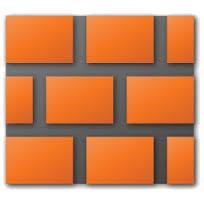
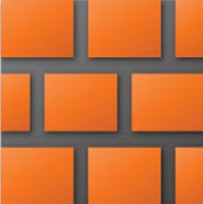
new

diff --git a/PROGETTO/src/board/GameBoard.java b/PROGETTO/src/board/GameBoard.java
@@ -31,41 +31,76 @@ public class GameBoard {
 				// generate a random number between 0 include and 100 exclusive.
 				random = rand.nextInt(100);
 				// five percent means 5/100 so if random is a number less than five percent
-				if ( random < 5 ){ // generate a Obstacle
+				if ( random < 7 ){ // generate a Obstacle
+					if(i!=0){
+						if(this.isWall(new Position(i-1,j)) ) {
+							outer.get(i).add(new Box(new Position(i,j))) ;  
+							continue;
+						}
+					}
+					else if(j!=0){
+						if(this.isWall(new Position(i,j-1)) ) {
+							outer.get(i).add(new Box(new Position(i,j))) ;  
+							continue;
+						}
+					}
 					
+					outer.get(i).add(new Wall(new Position(i,j))) ; 
 					
-					outer.get(i).add(new Obstacle(new Position(i,j))) ; 
-					random = rand.nextInt(100);
 				}
 				// 10 percent is between 10/100, so if random is between ten digits
-				else if( random >= 5 && random < 15 ){
+				else if( random >= 7 && random < 17 ){
 					
 					// generate obstacle
-					outer.get(i).add(new Wall(new Position(i,j))) ; 
-					random = rand.nextInt(100);
+
+					Random randh = new Random();
+					
+					outer.get(i).add(new Obstacle(new Position(i,j),randh.nextInt(46))) ;
+					
 				}
 				// else 
 				else { // fill with empty
 					outer.get(i).add(new Box(new Position(i,j))) ; 
-					random = rand.nextInt(100);
+					
 				}
+				random = rand.nextInt(100);
 			}
+		}
+
+		Position temp=new Position(rand.nextInt(height-1),rand.nextInt(width-1));
+		
+		while(true){
+			
+			if(this.isEmpty(temp)){
+				outer.get(temp.getX()).set(temp.getY(),new Trunk(temp));
+				break;
+			}
+			temp=new Position(rand.nextInt(height-1),rand.nextInt(width-1));
 		}
 		
 	}
 	public Boolean isObstacle(Position pos){
+		if(!(pos.getX()>=0 && pos.getX()<height) ||!(pos.getY()>=0 && pos.getY()<width) ) return false;
 		Boolean flag=false;
-		if(outer.get(pos.getX()).get(pos.getY()).getClass().getName().equals("Obstacle"))flag=true;
+		if(outer.get(pos.getX()).get(pos.getY()).getClass().getName().contains("Obstacle"))flag=true;
+		return flag;
+	}
+	public Boolean isTrunk(Position pos){
+		if(!(pos.getX()>=0 && pos.getX()<height) ||!(pos.getY()>=0 && pos.getY()<width) ) return false;
+		Boolean flag=false;
+		if(outer.get(pos.getX()).get(pos.getY()).getClass().getName().contains("Trunk"))flag=true;
 		return flag;
 	}
 	public Boolean isEmpty(Position pos){
+		if(!(pos.getX()>=0 && pos.getX()<height) ||!(pos.getY()>=0 && pos.getY()<width) ) return false;
 		Boolean flag=false;
-		if(outer.get(pos.getX()).get(pos.getY()).getClass().getName().equals("Box"))flag=true;
+		if(outer.get(pos.getX()).get(pos.getY()).getClass().getName().contains("Box"))flag=true;
 		return flag;
 	}
 	public Boolean isWall(Position pos){
+		if(!(pos.getX()>=0 && pos.getX()<height) ||!(pos.getY()>=0 && pos.getY()<width) ) return false;
 		Boolean flag=false;
-		if(outer.get(pos.getX()).get(pos.getY()).getClass().getName().equals("Wall"))flag=true;
+		if(outer.get(pos.getX()).get(pos.getY()).getClass().getName().contains("Wall"))flag=true;
 		return flag;
 	}
 	public JPanel getFrame(){

diff --git a/PROGETTO/src/board/Obstacle.java b/PROGETTO/src/board/Obstacle.java
@@ -18,15 +18,19 @@ import board.Wall.WallComponent;
 
 public class Obstacle extends Positionable {
 
-	public Obstacle(Position pos) {
+	public Obstacle(Position pos,double h) {
 		// TODO Auto-generated constructor stub
 		super.setPosition(pos);
+		health=h;
 	}
 	class ObstacleComponent extends JComponent {
 		private Position pos;
-		public ObstacleComponent(Position newPos){
+		private double heal;
+		public ObstacleComponent(Position newPos, double h){
 			super();
 			pos=newPos;
+			heal=h;
+			
 		}
 		public void paintComponent(Graphics g) {
 			
@@ -54,15 +58,34 @@ public class Obstacle extends Positionable {
 			 //   label.setBorder(BorderFactory.createLineBorder(Color.BLACK));
 			    
 			 //   g2.draw(label);
+
+				Rectangle2D.Double bar = new Rectangle2D.Double(2, 2, 46, 3);
+				
+				
+				Rectangle2D.Double coloredBar = new Rectangle2D.Double(2, 2, heal, 3);
 				g2.drawImage(sfondoBox, 0 , 0,50,50, null);
-				g2.drawImage(immagine, 0 , 0,50,50, null);		
+				g2.drawImage(immagine, 0 , 0,50,50, null);
+				g2.setPaint(Color.BLACK);
+				g2.fill(bar);
+				g2.draw(bar);
+				if(heal>=(46F*50F/100F))
+					g2.setPaint(Color.GREEN);
+				else if(heal>(46F/100F*25F) && heal <(46F/100F*50F))
+					g2.setPaint(Color.YELLOW);
+				else if (heal<(46F/100F*25F))
+					g2.setPaint(Color.RED);
+				g2.fill(coloredBar);
+				g2.draw(coloredBar);
+				
+			
 				//g2.drawImage(sfondoBox, 50*pos.getX() , 50*pos.getY(),50,50, null);
 			
 				//g2.drawImage(immagine, 50*pos.getX() , 50*pos.getY(),50,50, null);
 		}
 	}
 	public ObstacleComponent getComponent(){
-		ObstacleComponent tempComp  = new ObstacleComponent(super.getPosition());
+		ObstacleComponent tempComp  = new ObstacleComponent(super.getPosition(),health);
 		return tempComp;
 	}
+	private double health;
 }

diff --git a/PROGETTO/src/board/Trunk.java b/PROGETTO/src/board/Trunk.java
@@ -1,0 +1,60 @@
+package board;
+
+import java.awt.Graphics;
+import java.awt.Graphics2D;
+import java.awt.geom.Rectangle2D;
+import java.awt.image.BufferedImage;
+import java.io.File;
+import java.io.IOException;
+
+import javax.imageio.ImageIO;
+import javax.swing.JComponent;
+
+import board.Box.BoxComponent;
+
+public class Trunk extends Positionable {
+
+	public Trunk(Position pos) {
+		super.setPosition(pos);
+		// TODO Auto-generated constructor stub
+	}
+class TrunkComponent extends JComponent {
+	private Position pos;
+	public TrunkComponent(Position newPos){
+		super();
+		pos=newPos;
+	}
+	public void paintComponent(Graphics g) {
+		
+		// TODO Auto-generated constructor stub
+		
+		// Recover Graphics2D
+		Graphics2D g2 = (Graphics2D) g;
+		// Construct a rectangle and draw it
+		BufferedImage immagine = null;
+		 String projectPath = System.getProperty("user.dir");
+			try {
+				immagine = ImageIO.read(new File(projectPath + "\\src\\board\\trunk.png"));
+			} catch (IOException e) {
+				// TODO Auto-generated catch block
+				
+			}
+			BufferedImage  sfondoBox = null;
+			try {
+				sfondoBox = ImageIO.read(new File(projectPath + "\\src\\board\\road.jpg"));
+			} catch (IOException e) {
+				// TODO Auto-generated catch block
+				
+			}
+			g2.drawImage(sfondoBox, 0 , 0,50,50, null);
+			g2.drawImage(immagine, 0 , 0,50,50, null);			
+		
+	}
+}
+	public TrunkComponent getComponent(){
+		TrunkComponent tempComp  = new TrunkComponent(super.getPosition());
+		return tempComp;
+	}
+
+
+}

diff --git a/PROGETTO/src/board/GameBoardTester.java b/PROGETTO/src/board/GameBoardTester.java
@@ -7,14 +7,17 @@ public class GameBoardTester {
 
 	public static void main(String[] args) {
 		// TODO Auto-generated method stub
+		int x,y;
+		x=20;
+		y=10;
 		JFrame frame=new JFrame();
-		frame.setSize((10+1)*50, (10+1)*50);
+		frame.setSize((x+1)*50, (y+1)*50);
 		frame.setTitle("BoardGame");
 		frame.setDefaultCloseOperation(JFrame.EXIT_ON_CLOSE);
-		GameBoard board=new GameBoard(10,10);
+		GameBoard board=new GameBoard(x,y);
 		JPanel boardPanel=board.getFrame();
 		frame.add(boardPanel);
-		boardPanel.setSize((10+1)*50, (10+1)*50);
+		boardPanel.setSize((x+1)*50, (y+1)*50);
 		frame.setSize(boardPanel.getSize());
 		frame.setResizable(false);
 		frame.setVisible(true);

diff --git a/PROGETTO/src/board/HealthComponent.java b/PROGETTO/src/board/HealthComponent.java
@@ -1,0 +1,16 @@
+package board;
+
+import java.awt.geom.Rectangle2D;
+
+import javax.swing.JComponent;
+
+public class HealthComponent extends JComponent {
+
+	public HealthComponent() {
+		super();
+		// TODO Auto-generated constructor stub
+		Rectangle2D.Double bar = new Rectangle2D.Double(2, 2, 46, 5);
+		Rectangle2D.Double coloredBar = new Rectangle2D.Double(2, 2, 46, 5);
+	}
+
+}
